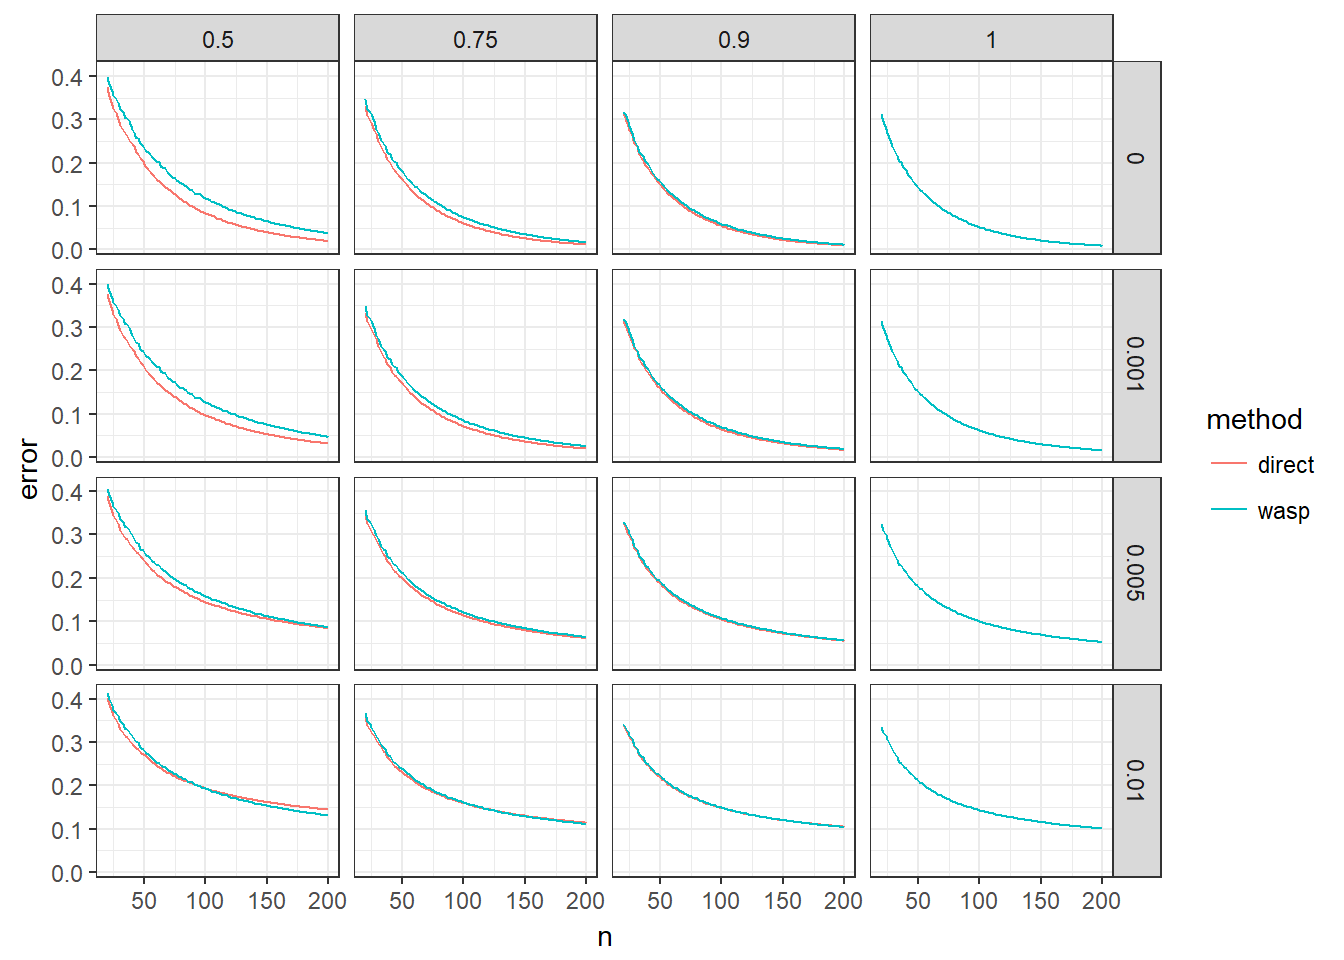
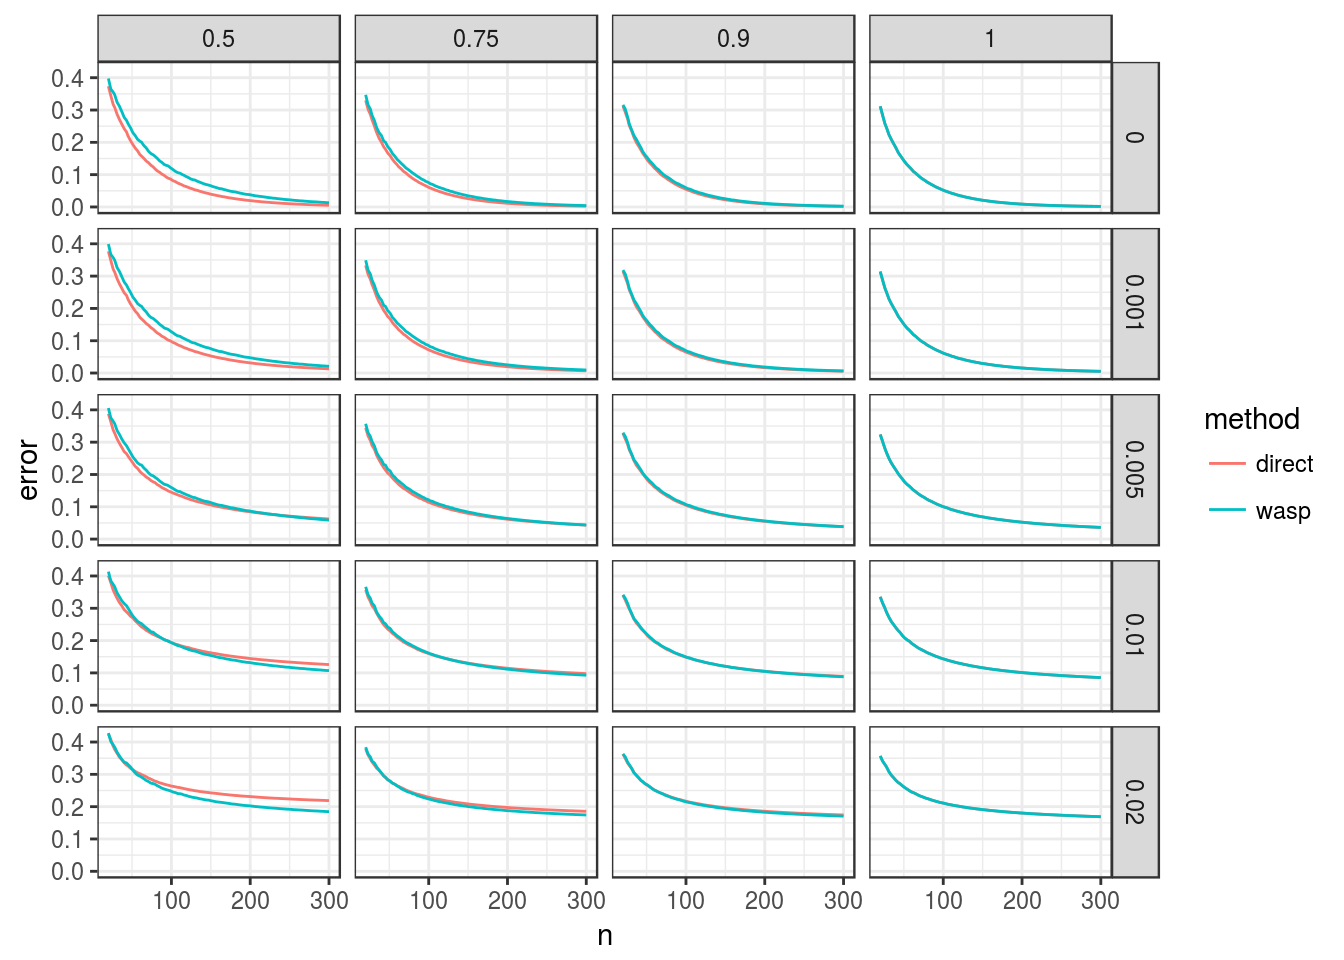
bias or remove one more od val

diff --git a/docs/bias_or_remove.html b/docs/bias_or_remove.html
@@ -25,8 +25,8 @@
 <link href="site_libs/tocify-1.9.1/jquery.tocify.css" rel="stylesheet" />
 <script src="site_libs/tocify-1.9.1/jquery.tocify.js"></script>
 <script src="site_libs/navigation-1.1/tabsets.js"></script>
-<link href="site_libs/highlightjs-9.12.0/textmate.css" rel="stylesheet" />
-<script src="site_libs/highlightjs-9.12.0/highlight.js"></script>
+<link href="site_libs/highlightjs-1.1/textmate.css" rel="stylesheet" />
+<script src="site_libs/highlightjs-1.1/highlight.js"></script>
 <link href="site_libs/font-awesome-4.5.0/css/font-awesome.min.css" rel="stylesheet" />
 
 <style type="text/css">code{white-space: pre;}</style>
@@ -36,12 +36,10 @@
   }
 </style>
 <script type="text/javascript">
-if (window.hljs) {
-  hljs.configure({languages: []});
-  hljs.initHighlightingOnLoad();
-  if (document.readyState && document.readyState === "complete") {
-    window.setTimeout(function() { hljs.initHighlighting(); }, 0);
-  }
+if (window.hljs && document.readyState && document.readyState === "complete") {
+   window.setTimeout(function() {
+      hljs.initHighlighting();
+   }, 0);
 }
 </script>
 
@@ -336,8 +334,8 @@ alpha &lt;- 0.7
 ploidy &lt;- 6
 dist &lt;- dbinom(x = 0:ploidy, size = ploidy, prob = alpha, log = FALSE)
 hseq &lt;- c(0.5, 0.75, 0.9, 1)
-odseq &lt;- c(0, 0.001, 0.005, 0.01)
-nseq &lt;- round(seq(20, 200, length = 100))
+odseq &lt;- c(0, 0.001, 0.005, 0.01, 0.02)
+nseq &lt;- round(seq(20, 300, length = 100))
 dat &lt;- expand.grid(h = hseq, n = nseq, od = odseq)
 dat$n_new &lt;- round(dat$n * dat$h / (alpha + dat$h * (1 - alpha)))
 dat$h_new &lt;- 1 ## completely removes bias
@@ -345,10 +343,10 @@ seq &lt;- 0.01
 err_wasp &lt;- rep(NA, nrow(dat))
 err_me   &lt;- rep(NA, nrow(dat))
 for (index in 1:nrow(dat)) {
-  err_me[index] &lt;- oracle_miss(n = dat$n[index], ploidy = ploidy, 
+  err_me[index] &lt;- oracle_mis(n = dat$n[index], ploidy = ploidy, 
                                  seq = seq, bias = dat$h[index], 
                                  od = dat$od[index], dist = dist)
-  err_wasp[index] &lt;- oracle_miss(n = dat$n_new[index], ploidy = ploidy, 
+  err_wasp[index] &lt;- oracle_mis(n = dat$n_new[index], ploidy = ploidy, 
                         seq = seq, bias = dat$h_new[index], 
                         od = dat$od[index], dist = dist)
 }
@@ -362,7 +360,7 @@ ggplot(data = longdat, mapping = aes(x = n, y = error, color = method)) +
   facet_grid(od ~ h) +
   theme_bw()</code></pre>
 <p><img src="bias_or_remove_files/figure-html/unnamed-chunk-2-1.png" width="672" /></p>
-<p>Oracly, it’s almost always better to directly model the bias.</p>
+<p>Oracly, it’s better to use WASP in overdispersed SNPs and better to directly account for the bias in non-overdispersed SNPs. My guess is that this is because the SNPs bunch up if there is too much bias, and this is particularly bad if the SNPs are overdispersed. But with less bias they are less bunched up.</p>
 <pre class="r"><code>## Negative difference means direct has lower oracle rate.
 dat$diff &lt;- dat$direct - dat$wasp
 ggplot(data = dat, mapping = aes(x = n, y = diff)) +
@@ -373,6 +371,7 @@ ggplot(data = dat, mapping = aes(x = n, y = diff)) +
   ggtitle(&quot;difference of oracle error rates&quot;) +
   theme(strip.background = element_rect(fill = &quot;white&quot;))</code></pre>
 <p><img src="bias_or_remove_files/figure-html/unnamed-chunk-3-1.png" width="672" /></p>
+<p>In the Shirasawa dataset, most of the estimates of the bias were between 0.001 and 0.02.</p>
 </div>
 
 <hr>

diff --git a/docs/site_libs/navigation-1.1/sourceembed.js b/docs/site_libs/navigation-1.1/sourceembed.js
@@ -1,12 +1,9 @@
 
+
 window.initializeSourceEmbed = function(filename) {
   $("#rmd-download-source").click(function() {
-    var src = $("#rmd-source-code").html();
-    var a = document.createElement('a');
-    a.href = "data:text/x-r-markdown;base64," + src;
-    a.download = filename;
-    document.body.appendChild(a);
-    a.click();
-    document.body.removeChild(a);
+    var src = window.atob($("#rmd-source-code").html());
+    var blob = new Blob([src], {type: "text/x-r-markdown"});
+    saveAs(blob, filename);
   });
 };
